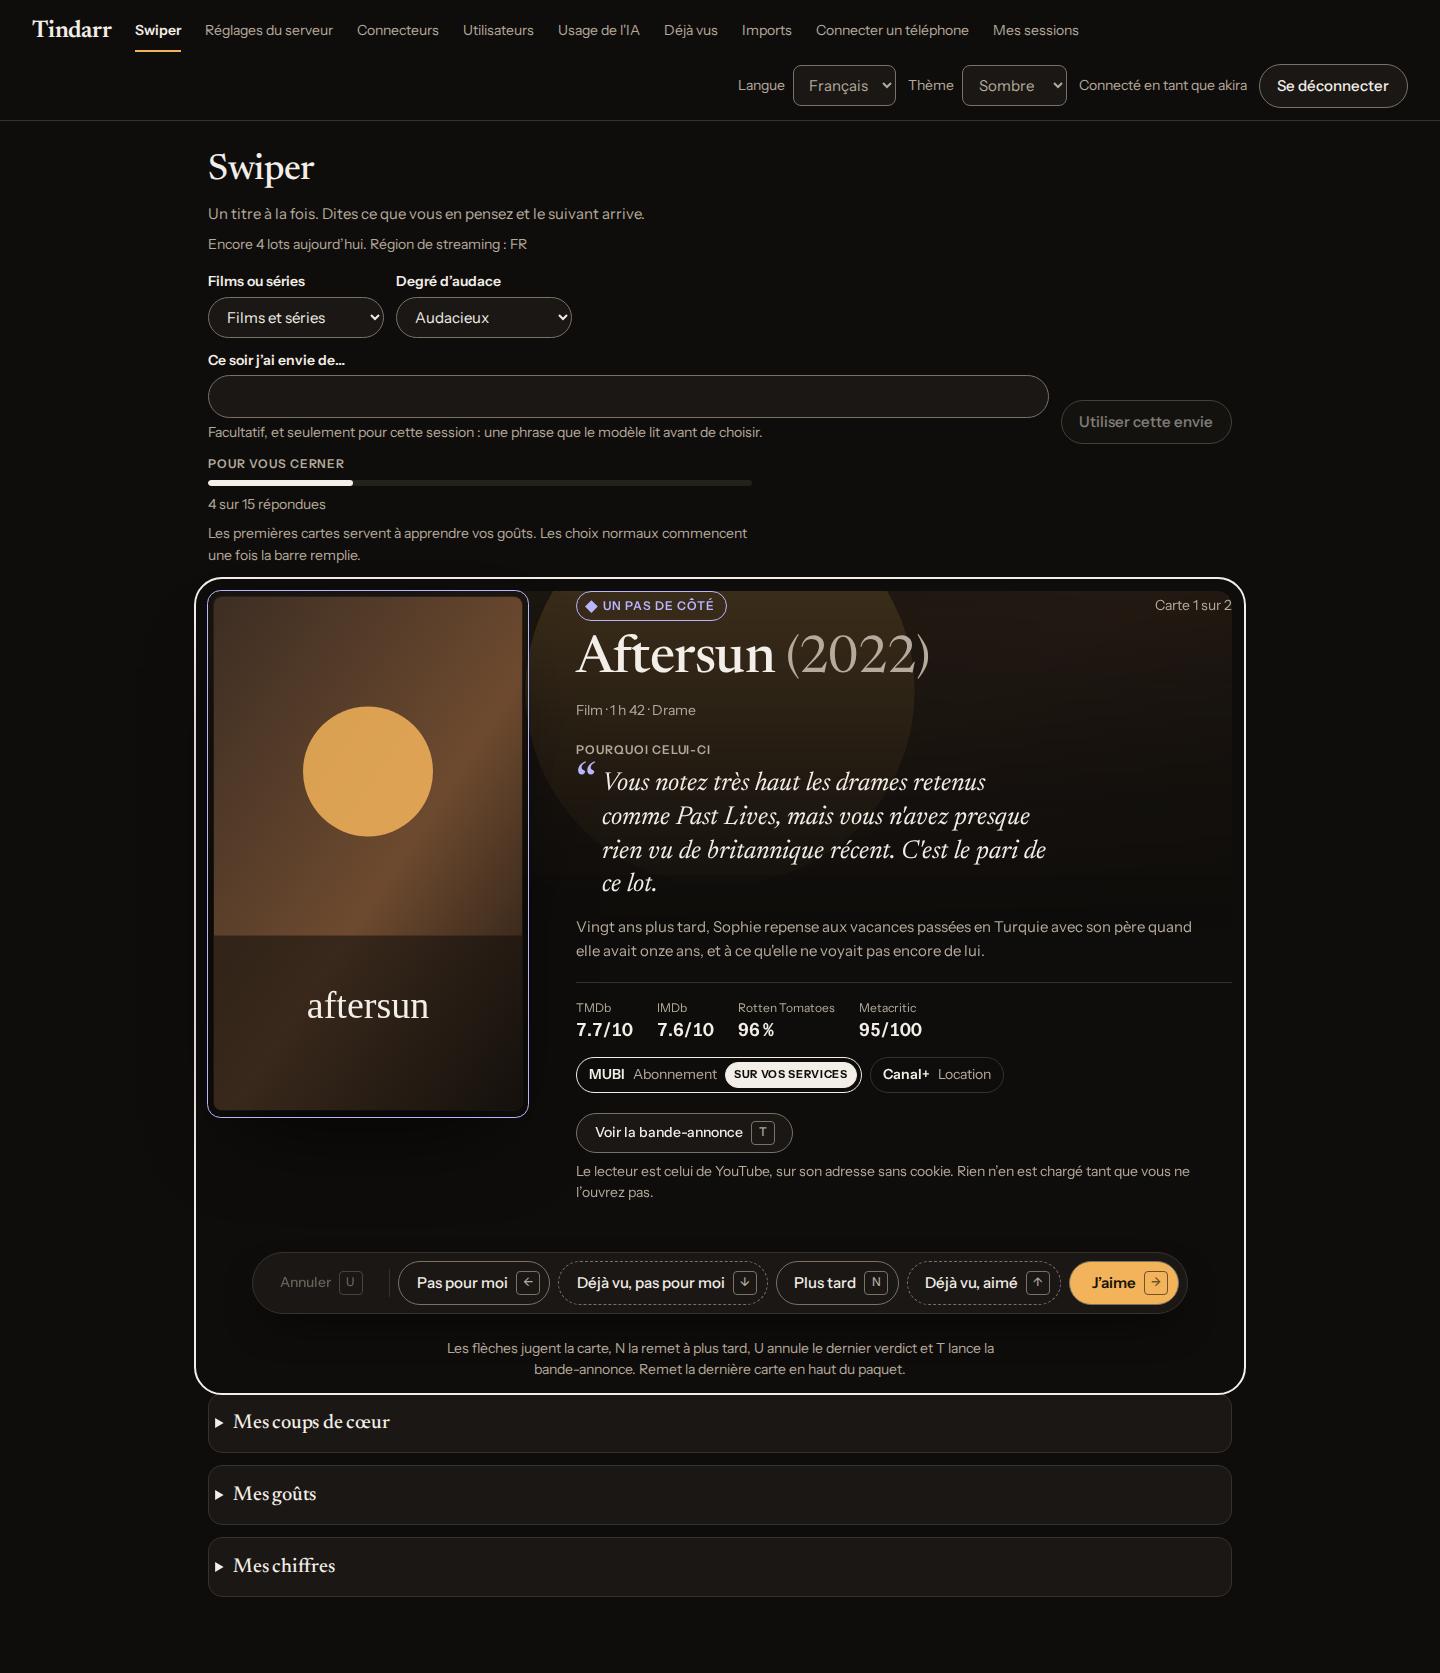
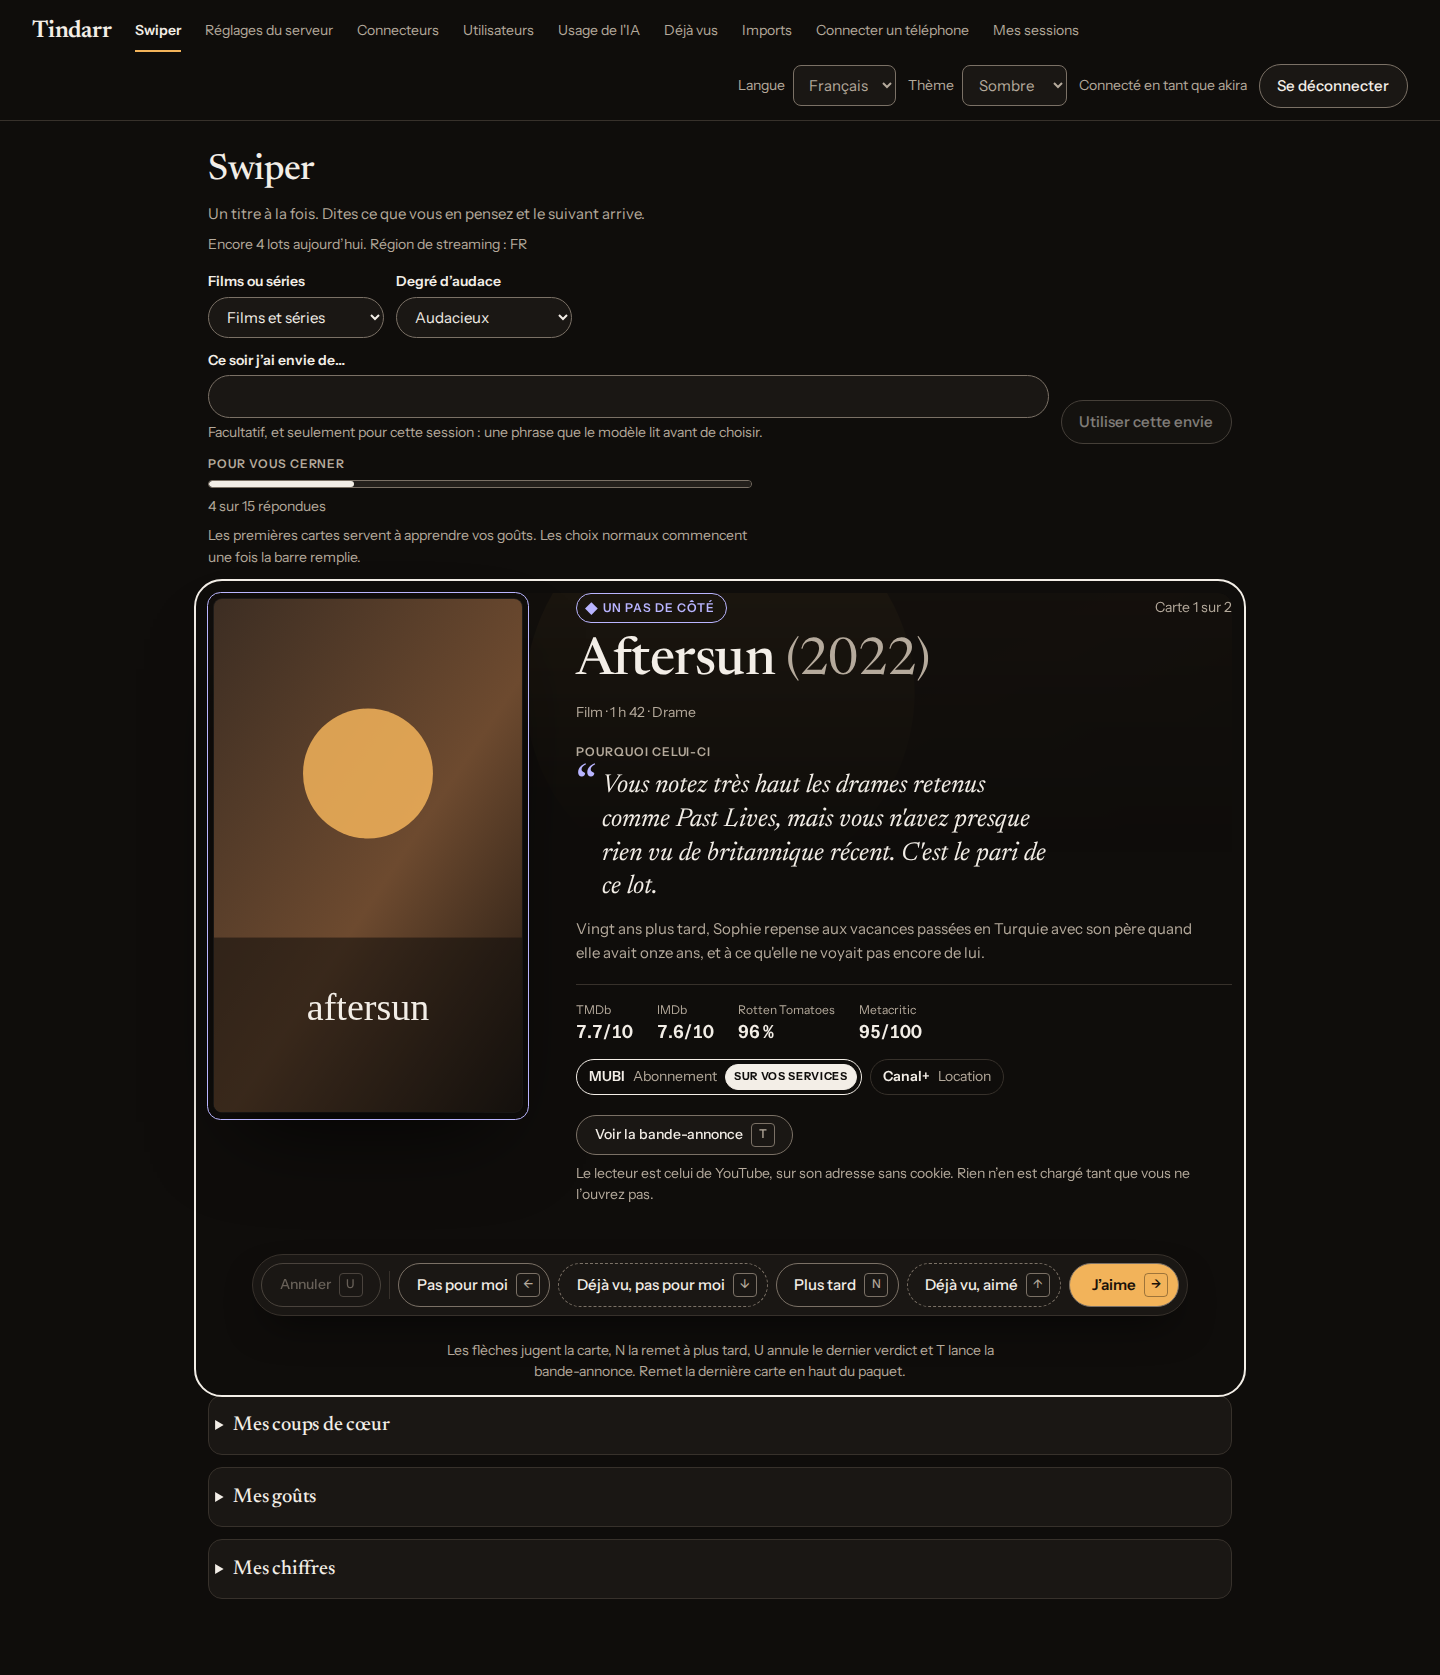
refonte(a11y): what an independent review of the redesign measured
A read-only reviewer recomputed every contrast pair the stylesheet actually
produces — not the ones the test happened to list — and found three things the
redesign had got wrong, plus a handful it had left behind.

**Must fix.**
- The backdrop wash could take the card under AA. A TMDb backdrop is an
  arbitrary image, so the worst one is white behind the dark theme and black
  behind the light one; at 30 % through a 70 % mask it put `--accent-ink` at
  3,4:1 and `--control-border` at 2,1:1. It is now 9 % through a 60 % mask —
  5,4 % of effective cover, the most the card can take — and the token test
  measures the composite against the worst poster in both themes.
- `.deck-controls-busy` dimmed the whole section to 45 %, including the
  calibration bar, which is live information and not a disabled control: 2,0:1
  in the light theme. Only what is disabled is dimmed now, and the section says
  `aria-busy`.
- `web/e2e/deck.spec.ts` still looked for a heading named "Why this one". The
  reason became a figure's caption; the flow now asserts the caption and that
  the quotation is not empty.

**Also.** The key cap on the filled button was 3,5:1 at 60 % opacity; the poster
tile's boundary was `--border` (1,3:1) and its ticked state `--accent` (1,9:1)
on the light page; the calibration track was invisible against the page; undo
had no boundary at all and read as prose; `.badge` and `.avail` could not wrap,
[…]

diff --git a/web/src/styles/index.css b/web/src/styles/index.css
@@ -297,6 +297,12 @@ input[aria-invalid="true"] {
   border-color: var(--danger);
 }
 
+/* The browser's own placeholder grey is under 4,5:1 in most engines. */
+::placeholder {
+  color: var(--muted);
+  opacity: 1;
+}
+
 .limit-input {
   width: 7rem;
 }
@@ -400,10 +406,11 @@ input[aria-invalid="true"] {
   flex: none;
 }
 
+/* No opacity here: --on-accent at 60 % over --accent is 3,5:1, and this glyph is
+   set at 12 px. The border carries the softening instead. */
 .btn-primary .kbd {
   color: var(--on-accent);
-  border-color: var(--on-accent);
-  opacity: 0.6;
+  border-color: rgb(0 0 0 / 35%);
 }
 
 /* A pointer that cannot press a key has no use for one. */
@@ -458,7 +465,6 @@ input[aria-invalid="true"] {
   border-radius: var(--radius-pill);
   font-size: var(--text-xs);
   color: var(--muted);
-  white-space: nowrap;
 }
 
 .badge-running {
@@ -496,6 +502,10 @@ input[aria-invalid="true"] {
      initial containing block for its own and push the whole page sideways. */
   position: relative;
   overflow-x: auto;
+  /* Room for a focus ring on a control in the first or last cell: the box clips
+     what it scrolls, and `outline-offset` would be cut off against its edge. */
+  padding: var(--space-1) var(--space-2);
+  margin-inline: calc(var(--space-2) * -1);
   max-width: 100%;
   border-radius: var(--radius-md);
 }
@@ -631,7 +641,7 @@ input[aria-invalid="true"] {
   width: 100%;
   display: block;
   padding: 0;
-  border: 2px solid var(--border);
+  border: 2px solid var(--control-border);
   border-radius: var(--radius-md);
   background: var(--surface);
   color: var(--text);
@@ -643,8 +653,10 @@ input[aria-invalid="true"] {
 
 /* Ticked posters have to be obvious at a glance and not only by colour: the border
    thickens and the label turns solid, so the state survives a colour-blind reader. */
+/* --accent as a boundary is 1,9:1 on the light page; the ink version is 5,6:1,
+   and the label below turns solid anyway. */
 .poster-tile-on {
-  border-color: var(--accent);
+  border-color: var(--accent-ink);
 }
 
 .poster-tile-on .poster-label {
@@ -791,9 +803,16 @@ input[aria-invalid="true"] {
 }
 
 /* Changing an envie would pay for another batch, so while one is being built the
-   settings stay visible and inert rather than disappearing. */
-.deck-controls-busy {
-  opacity: 0.45;
+   settings stay visible and inert rather than disappearing.
+   Only what is disabled is dimmed: the calibration bar beside them is live
+   information, and 45 % of --muted is 2,0:1 in the light theme. */
+.deck-controls-busy :is(select, input, .btn):disabled {
+  opacity: 0.4;
+}
+
+.deck-controls-busy .field > label,
+.deck-controls-busy .field > .hint {
+  color: var(--muted);
 }
 
 .calibration-progress {
@@ -813,11 +832,13 @@ input[aria-invalid="true"] {
   color: var(--muted);
 }
 
+/* The track is --surface-2 on --bg, which is 1,2:1 — invisible. Outlined, so how
+   far there is left to go can actually be seen. */
 .calibration-progress progress {
   width: 100%;
-  height: 0.375rem;
+  height: 0.5rem;
   appearance: none;
-  border: 0;
+  border: 1px solid var(--control-border);
   border-radius: var(--radius-pill);
   background: var(--surface-2);
   overflow: hidden;
@@ -883,15 +904,23 @@ input[aria-invalid="true"] {
   overflow: clip;
   pointer-events: none;
   border-radius: var(--radius-lg);
-  -webkit-mask-image: linear-gradient(to bottom, rgb(0 0 0 / 70%) 0%, rgb(0 0 0 / 0%) 88%);
-  mask-image: linear-gradient(to bottom, rgb(0 0 0 / 70%) 0%, rgb(0 0 0 / 0%) 88%);
+  -webkit-mask-image: linear-gradient(to bottom, rgb(0 0 0 / 60%) 0%, rgb(0 0 0 / 0%) 70%);
+  mask-image: linear-gradient(to bottom, rgb(0 0 0 / 60%) 0%, rgb(0 0 0 / 0%) 70%);
 }
 
+/*
+ * A TMDb backdrop is an arbitrary image, so the worst one is white in the dark
+ * theme and black in the light one, and every word of the card is drawn over it.
+ * 9 % through a mask that opens at 60 % is 5,4 % of effective cover, which is the
+ * most the card can take and keep --muted, --accent-ink, --bet-ink and --success
+ * above 4,5:1 and --control-border above 3:1 against either. Measured, with the
+ * worst poster, in web/test/tokens.test.ts.
+ */
 .deck-backdrop-image {
   width: 100%;
   height: 100%;
   object-fit: cover;
-  opacity: 0.3;
+  opacity: 0.09;
 }
 
 /* The wash only works because it fades out. A browser that cannot fade it would
@@ -1155,16 +1184,17 @@ input[aria-invalid="true"] {
   border: 1.5px solid currentcolor;
 }
 
+/* No `nowrap`: at 200 % text zoom a 26-character pill that cannot break is what
+   makes a 320 px page scroll sideways (WCAG 1.4.10). */
 .avail {
   display: inline-flex;
   align-items: center;
   gap: var(--space-2);
-  height: 1.75rem;
-  padding: 0 0.75rem;
+  min-height: 1.75rem;
+  padding: 0.15rem 0.75rem;
   border: 1px solid var(--control-border);
   border-radius: var(--radius-pill);
   font-size: var(--text-sm);
-  white-space: nowrap;
 }
 
 .avail-mark {
@@ -1244,7 +1274,7 @@ input[aria-invalid="true"] {
 }
 
 .deck-undo .btn {
-  border-color: transparent;
+  border-color: var(--control-border);
   background: none;
   color: var(--muted);
   font-size: var(--text-sm);
@@ -1253,7 +1283,7 @@ input[aria-invalid="true"] {
 .deck-undo .btn:hover:not(:disabled) {
   color: var(--text);
   background: var(--surface-2);
-  border-color: transparent;
+  border-color: var(--text);
 }
 
 .deck-undo::after {
@@ -1290,8 +1320,11 @@ input[aria-invalid="true"] {
   text-align: center;
 }
 
+/* A pointer that cannot press a key has no use for the keyboard sentence. What
+   undo does is not about the keyboard, so it stays. */
 @media (pointer: coarse) {
-  .deck-keys-hint {
+  .deck-keys-keyboard,
+  .deck-keymap {
     display: none;
   }
 }
@@ -1312,6 +1345,10 @@ input[aria-invalid="true"] {
   grid-template-columns: minmax(0, 15rem) minmax(0, 1fr);
   gap: var(--space-7);
   align-items: center;
+}
+
+.dead-end {
+  max-width: 44rem;
 }
 
 .deck-state-text {

diff --git a/web/test/tokens.test.ts b/web/test/tokens.test.ts
@@ -30,6 +30,8 @@ const shared = read("shared/design/tokens.css");
 const asData = JSON.parse(read("shared/design/tokens.json")) as {
   color: Record<"dark" | "light", Record<string, string>> & { scrim: string };
   shadow: Record<"dark" | "light", Record<string, string>>;
+  leading: Record<string, string>;
+  focus: { ring: string; offset: string };
   font: Record<string, string>;
   text: Record<string, string>;
   space: Record<string, string>;
@@ -99,6 +101,11 @@ describe("the tokens the two clients share", () => {
     for (const [name, value] of Object.entries(asData.shadow.dark)) {
       expect(sharedRoot.get(`--${name}`)).toBe(value);
     }
+    for (const [name, value] of Object.entries(asData.leading)) {
+      expect(`${name}=${sharedRoot.get(`--${name}`) ?? "missing"}`).toBe(`${name}=${value}`);
+    }
+    expect(sharedRoot.get("--focus-ring")).toBe(asData.focus.ring);
+    expect(sharedRoot.get("--focus-offset")).toBe(asData.focus.offset);
     expect(sharedRoot.get("--scrim")).toBe(asData.color.scrim);
   });
 
@@ -180,12 +187,9 @@ describe.each(["dark", "light"] as const)("contrast in the %s theme", (theme) =>
   const palette = asData.color[theme];
 
   it.each(PAIRS)("%s on %s reaches %d:1", (ink, paper, floor) => {
+    // No rounding before the comparison: 4,45:1 is not 4,5:1.
     const ratio = contrast(palette[ink] ?? "", palette[paper] ?? "");
-    // The ratio is in the failure message, so a regression says by how much.
-    expect([`${ink} on ${paper}`, Math.round(ratio * 10) / 10 >= floor]).toEqual([
-      `${ink} on ${paper}`,
-      true,
-    ]);
+    expect([`${ink} on ${paper}`, ratio >= floor]).toEqual([`${ink} on ${paper}`, true]);
   });
 
   it("keeps the text over a poster readable whatever the poster is", () => {
@@ -193,5 +197,31 @@ describe.each(["dark", "light"] as const)("contrast in the %s theme", (theme) =>
     // where the text sits, so that is what the reading has to survive.
     const worst = composite("#0a0806", 0.86, "#ffffff");
     expect(contrast(palette["on-scrim"] ?? "", worst)).toBeGreaterThanOrEqual(4.5);
+  });
+
+  /*
+   * The card's backdrop wash. A TMDb backdrop is an arbitrary image, so the worst
+   * one is the one furthest from the page: white behind the dark theme, black
+   * behind the light one. `.deck-backdrop-image` is at 9 % through a mask that
+   * opens at 60 %, and everything on the card is drawn over the result.
+   */
+  it.each([
+    ["muted", 4.5],
+    ["accent-ink", 4.5],
+    ["bet-ink", 4.5],
+    ["success", 4.5],
+    ["text", 4.5],
+    ["control-border", 3],
+  ] as const)("keeps %s above %d:1 over the worst backdrop", (ink, floor) => {
+    const washed = composite(
+      theme === "dark" ? "#ffffff" : "#000000",
+      0.09 * 0.6,
+      palette["bg"] ?? "",
+    );
+    const ratio = contrast(palette[ink] ?? "", washed);
+    expect([`${ink} over the backdrop`, ratio >= floor]).toEqual([
+      `${ink} over the backdrop`,
+      true,
+    ]);
   });
 });

diff --git a/web/src/features/deck/DeckPage.tsx b/web/src/features/deck/DeckPage.tsx
@@ -470,10 +470,11 @@ export function DeckPage(): ReactNode {
           bound here rather than to the document, so the arrow keys still scroll
           this long page everywhere else.
 
-          The rule below is about listeners on elements nobody can reach. This one
-          is in the tab order, takes focus when the first card arrives, and every
-          shortcut it answers to is also a button inside it carrying the same
-          `aria-keyshortcuts` — so nothing here is reachable by keyboard only. */}
+          The rule below is about listeners on elements nobody can reach. This
+          one takes focus when the first card arrives, and every shortcut it
+          answers to is also a button inside it carrying the same
+          `aria-keyshortcuts` — so nothing here is reachable by keyboard only. It
+          is out of the tab order on purpose: the buttons are the tab stops. */}
       {/* eslint-disable-next-line jsx-a11y-x/no-noninteractive-element-interactions */}
       <section
         ref={regionRef}
@@ -532,7 +533,8 @@ export function DeckPage(): ReactNode {
               </div>
             </div>
             <p className="hint deck-keys-hint">
-              {t("deck.keys.hint")} {t("deck.undoHint")}
+              <span className="deck-keys-keyboard">{t("deck.keys.hint")} </span>
+              {t("deck.undoHint")}
             </p>
           </>
         )}

diff --git a/web/src/features/deck/keys.ts b/web/src/features/deck/keys.ts
@@ -3,9 +3,11 @@
  *
  * Arrow keys for the four verdicts — the same four directions the app will swipe
  * in (roadmap step 7), so the two clients teach the same thing — plus three
- * letters for what has no direction left. Letters are shown as letters in both
- * catalogues rather than described, because "N" means nothing in French until
- * you see it written on the button.
+ * letters for what has no direction left.
+ *
+ * The keys are drawn as glyphs (`KEY_CAPS`) rather than named in the catalogues:
+ * a key is the same shape in every language, and the name a screen reader needs
+ * is the specification's, which `SHORTCUTS` gives to `aria-keyshortcuts`.
  */
 import type { VoteValue } from "../../api/operations";
 
@@ -37,7 +39,7 @@ export const VERDICTS: readonly VoteValue[] = [
   "like",
 ];
 
-/** Catalogue suffix for a verdict: `deck.verdict.<name>` and `deck.keys.<name>`. */
+/** Catalogue suffix for a verdict: `deck.verdict.<name>`. */
 export type VerdictKey = "like" | "dislike" | "seenLiked" | "seenDisliked" | "skip";
 
 export const VERDICT_KEYS: Readonly<Record<VoteValue, VerdictKey>> = {

diff --git a/web/src/components/ui.tsx b/web/src/components/ui.tsx
@@ -148,6 +148,15 @@ export function CheckboxField({ label, hint, ...input }: CheckboxProps): ReactNo
   );
 }
 
+/**
+ * A message about what just happened.
+ *
+ * The four kinds differ by their colour, and in the dark theme `--success`,
+ * `--warning` and `--danger` are close in luminance: in greyscale the box would
+ * say nothing. So the severity is also written, in a word only a screen reader
+ * and a greyscale reader need — it is what tells a warning from a confirmation
+ * either way, since both are `role="status"`.
+ */
 export function Alert({
   kind = "info",
   children,
@@ -155,8 +164,10 @@ export function Alert({
   kind?: "info" | "success" | "warning" | "error";
   children: ReactNode;
 }): ReactNode {
+  const { t } = useTranslation(["console", "common"]);
   return (
     <p className={`alert alert-${kind}`} role={kind === "error" ? "alert" : "status"}>
+      <span className="visually-hidden">{t(`common:alert.${kind}`)} </span>
       {children}
     </p>
   );

diff --git a/web/e2e/deck.spec.ts b/web/e2e/deck.spec.ts
@@ -133,8 +133,12 @@ test("a real batch: a card, a verdict, an undo and the trailer", async ({
   expect(first.trim()).not.toBe("");
 
   // Everything the card promises is on it.
-  await expect(page.getByRole("heading", { name: "Why this one" })).toBeVisible();
-  await expect(page.getByRole("heading", { name: "Where to watch" })).toBeVisible();
+  // The reason is a figure's caption since the refonte, not a heading: it is the
+  // card's line, not a section of it. "Where to watch" is still a heading, kept
+  // for a screen reader and hidden from the eye.
+  await expect(page.locator("figcaption.rationale-label")).toHaveText("Why this one");
+  await expect(page.locator("blockquote.rationale")).not.toBeEmpty();
+  await expect(page.getByRole("heading", { name: "Where to watch" })).toBeAttached();
   await expect(page.locator("img.poster").first()).toBeVisible();
 
   // The trailer: the frame is built by the click, and the browser has to accept it

diff --git a/web/src/features/deck/DeckControls.tsx b/web/src/features/deck/DeckControls.tsx
@@ -44,6 +44,7 @@ export function DeckControls({
       // Visible but inert while a batch is building: changing an envie there would
       // throw away a batch that has already been paid for (design, "Attente").
       className={busy ? "deck-controls deck-controls-busy" : "deck-controls"}
+      aria-busy={busy}
       aria-label={t("deck.controls.title")}
     >
       <div className="row">

diff --git a/web/scripts/build-fonts.py b/web/scripts/build-fonts.py
@@ -11,9 +11,12 @@ per-subset slice:
     ofl/newsreader/Newsreader-Italic[opsz,wght].ttf
     ofl/instrumentsans/InstrumentSans[wdth,wght].ttf
 
-Each is cut down to the Latin characters the two catalogues need (plus the
-arrows the keyboard hints draw), its axes are limited to the ranges the
-stylesheet asks for, and it is written out as variable WOFF2. Newsreader keeps
+Each is cut down to the Latin characters the two catalogues need, its axes are
+limited to the ranges the stylesheet asks for, and it is written out as variable
+WOFF2. The arrows U+2190-2193 the keyboard hints draw only survive in Instrument
+Sans — Newsreader has no arrow to keep — which is why ``.kbd`` pins itself to
+``--font-ui``. U+202F, the French narrow no-break space, is in none of the three
+upstream fonts, so the catalogues use U+00A0 instead. Newsreader keeps
 its optical-size axis: browsers vary it by themselves, and the card title is set
 at 52 px while the rationale is set at 26 px. Instrument Sans is pinned to
 ``wdth: 100``, the only width the console uses.
